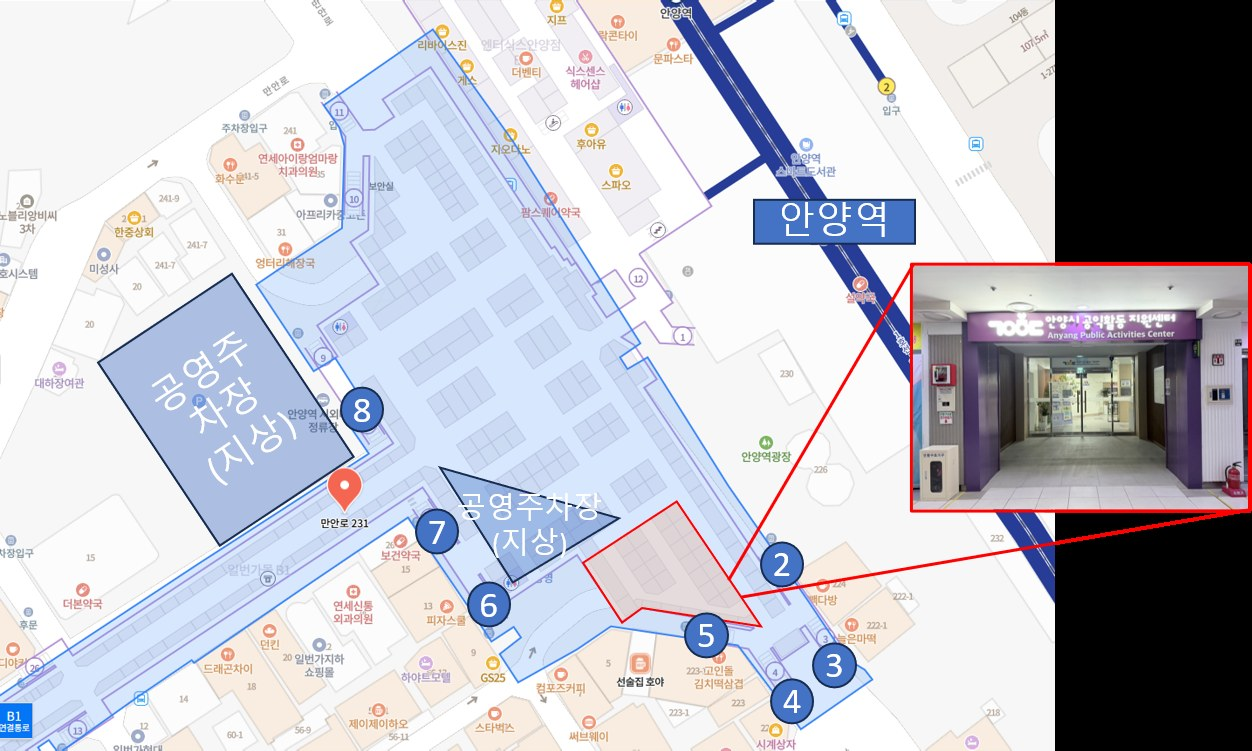
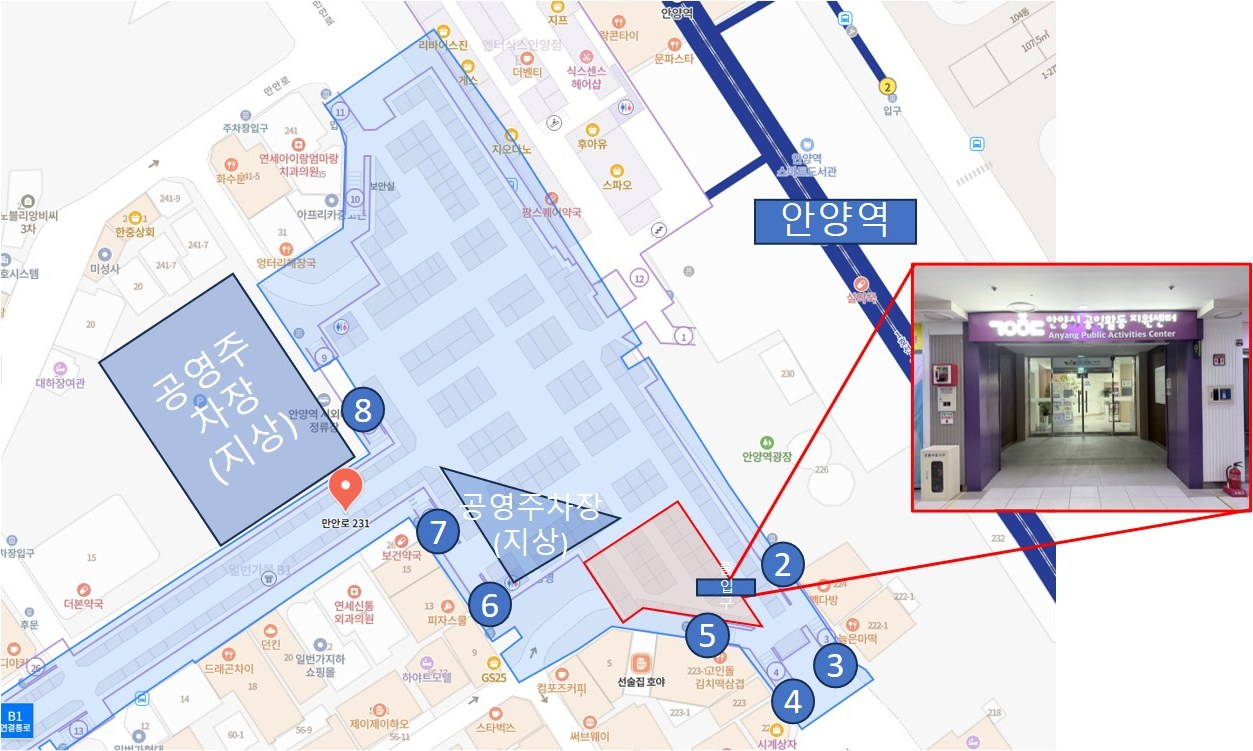
Add files via upload

diff --git a/index.html b/index.html
@@ -135,6 +135,12 @@ fieldset{border:0;margin:0;padding:0;display:flex;flex-direction:column;gap:10px
 @keyframes pulse{0%,100%{opacity:.55}50%{opacity:1}}
 .devmap{display:block;border-radius:12px;overflow:hidden;border:1px solid var(--line)}
 .devmap img{display:block;width:100%;height:auto}
+.notice-change{margin:22px 22px 0;padding:14px 16px;border-radius:14px;background:var(--warn-soft);border:1.5px solid var(--warn);display:grid;grid-template-columns:auto 1fr;gap:12px;align-items:start}
+.notice-change .bang{width:24px;height:24px;border-radius:50%;background:var(--warn);color:var(--card);font-weight:700;display:grid;place-items:center;font-size:15px;line-height:1;margin-top:1px}
+.notice-change strong{display:block;color:var(--warn);font-size:16px;line-height:1.45}
+.notice-change p{margin:2px 0 0;font-size:14.5px;font-weight:500;color:var(--ink)}
+.notice-change a{display:inline-block;margin-top:6px;font-size:13.5px;font-weight:600;color:var(--warn);text-decoration:underline;text-underline-offset:3px}
+.chg{display:inline-block;margin-right:6px;padding:1px 7px;border-radius:6px;background:var(--warn);color:var(--card);font-size:11.5px;font-weight:700;vertical-align:2px}
 .foot{margin:0;text-align:center;font-size:12px;color:var(--muted)}
 @media (prefers-reduced-motion: reduce){
   .town .w,.opt,.radio::after{transition:none}
@@ -173,12 +179,20 @@ fieldset{border:0;margin:0;padding:0;display:flex;flex-direction:column;gap:10px
     </div>
 
     <div class="view" id="view-invite" tabindex="-1" hidden>
+      <div class="notice-change" role="note">
+        <span class="bang" aria-hidden="true">!</span>
+        <div>
+          <strong>장소가 변경되었습니다.</strong>
+          <p>해당 장소 확인 후 참석 가능 여부를 다시 응답해 주세요!</p>
+          <a href="location-map.jpg" target="_blank" rel="noopener">변경된 장소 약도 보기</a>
+        </div>
+      </div>
       <section class="letter">
         <p class="to"><span class="unit" id="guestUnit"></span><b id="guestName"></b> 님께</p>
         <p class="msg">같은 단지에서 함께 살아갈 이웃분들과 처음 인사를 나누는 자리를 마련했습니다. 협의회가 그동안 해 온 일을 말씀드리고, 입주 전에 궁금하신 점도 간단하게 함께 나누려 합니다.</p>
         <dl class="facts">
           <div><dt>일시</dt><dd>2026년 11월 21일 토요일<span class="sub">오후 1시 30분 시작</span></dd></div>
-          <div><dt>장소</dt><dd>안양시 공익활동지원센터<span class="sub">안양역 지하상가 안</span></dd></div>
+          <div><dt>장소</dt><dd><span class="chg">변경</span>안양시 공익활동지원센터<span class="sub">안양역 지하상가 안</span></dd></div>
           <div><dt>인원</dt><dd>계약세대당 성인 최대 2인<span class="sub">동반 자녀는 별도</span></dd></div>
         </dl>
       </section>
@@ -198,6 +212,14 @@ fieldset{border:0;margin:0;padding:0;display:flex;flex-direction:column;gap:10px
     </div>
 
     <div class="view" id="view-guide" tabindex="-1" hidden>
+      <div class="notice-change" role="note">
+        <span class="bang" aria-hidden="true">!</span>
+        <div>
+          <strong>장소가 변경되었습니다.</strong>
+          <p>해당 장소 확인 후 참석 가능 여부를 다시 응답해 주세요!</p>
+          <a href="#wayTitle">아래 약도에서 위치 확인하기</a>
+        </div>
+      </div>
       <div class="confirm">
         <span class="lampdot" aria-hidden="true"></span>
         <div>
@@ -222,11 +244,11 @@ fieldset{border:0;margin:0;padding:0;display:flex;flex-direction:column;gap:10px
       <section class="block" aria-labelledby="wayTitle">
         <h2 id="wayTitle">찾아오시는 길</h2>
         <div class="place">
-          <span class="place-name" id="placeName">안양시 공익활동지원센터</span>
+          <span class="place-name"><span class="chg">변경</span><span id="placeName">안양시 공익활동지원센터</span></span>
           <span class="place-sub">안양역 지하상가 안</span>
         </div>
         <a class="devmap" href="location-map.jpg" target="_blank" rel="noopener">
-          <img src="location-map.jpg" alt="안양역 지하상가 약도와 안양시 공익활동지원센터 입구 사진" width="1252" height="751">
+          <img src="location-map.jpg" alt="안양역 지하상가 약도와 안양시 공익활동지원센터 입구 사진" width="1253" height="751">
         </a>
         <div class="maps">
           <a class="btn btn-ghost" id="kakaoMap" href="https://map.kakao.com/" target="_blank" rel="noopener">카카오맵</a>
